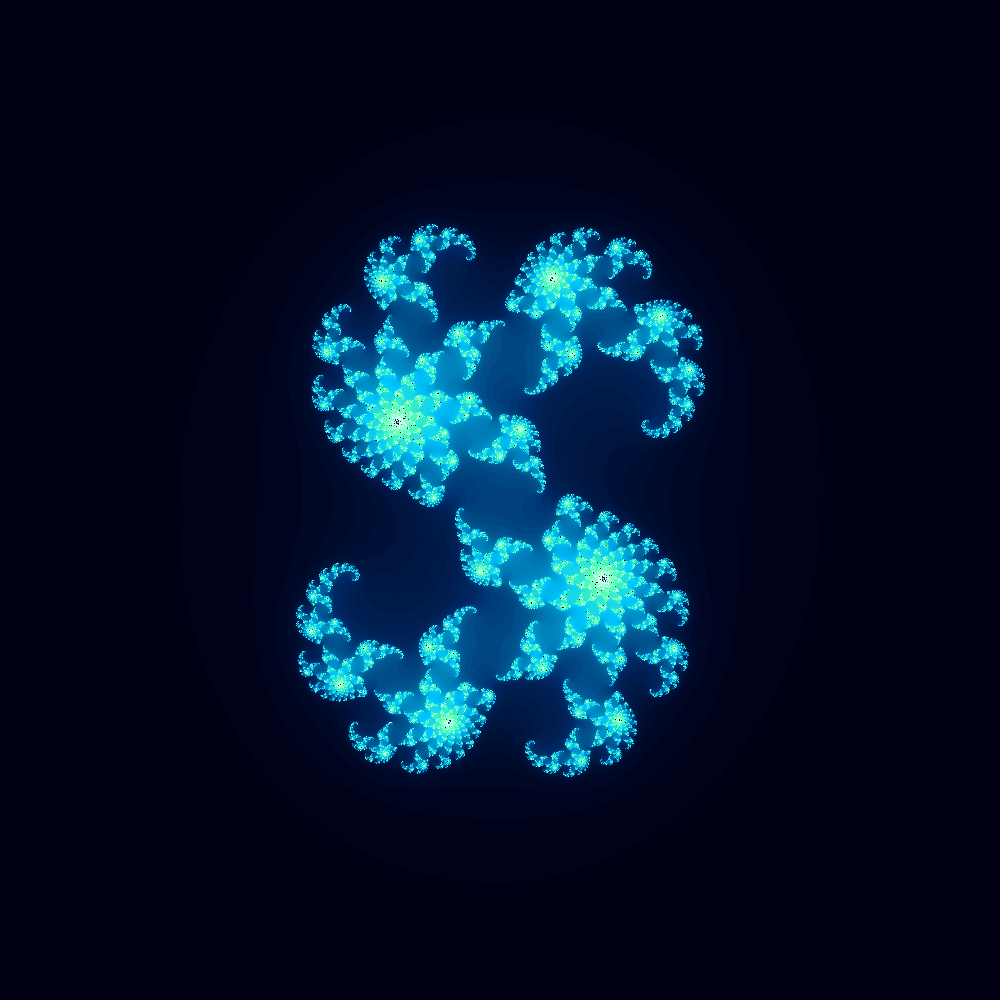
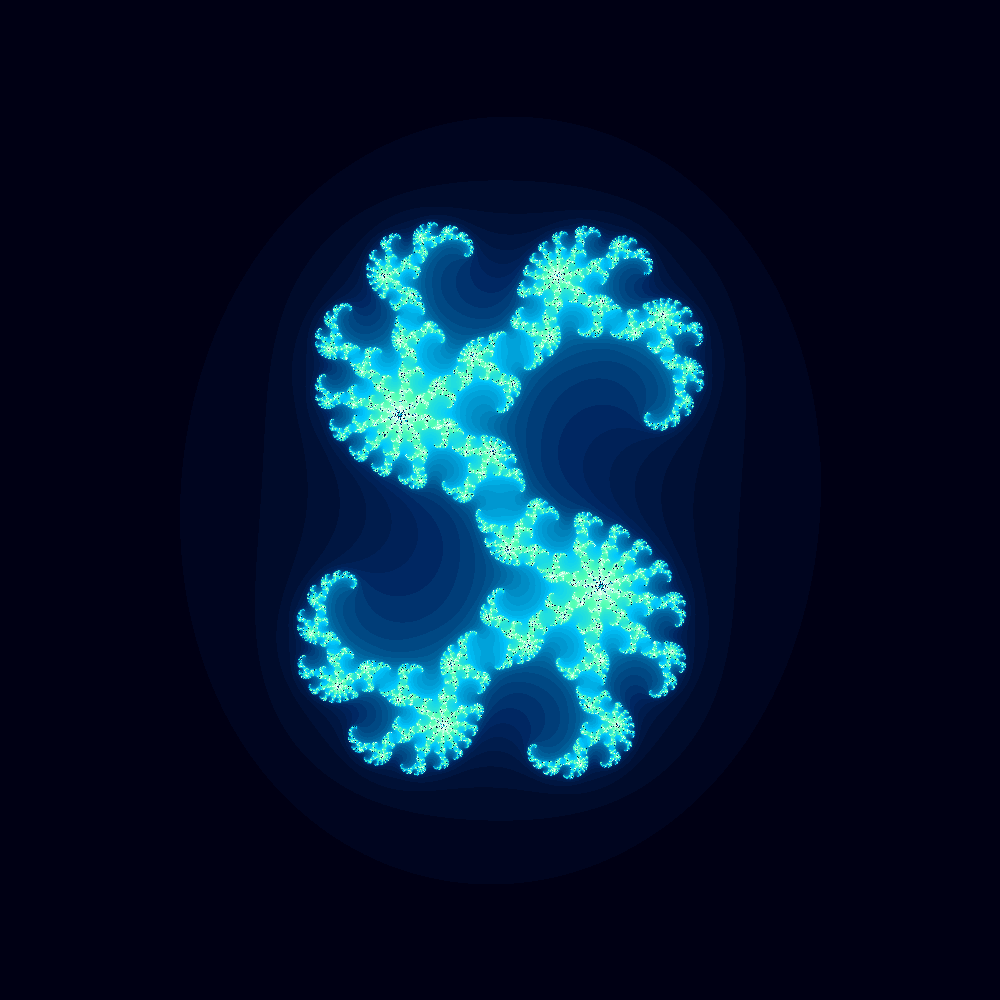
Added an info button

Changed region(s): [[0.279, 0.217, 0.713, 0.806]]

diff --git a/MandelBrot/Gradients.cs b/MandelBrot/Gradients.cs
@@ -37,7 +37,7 @@ namespace MandelBrot
         public static readonly double[] iceAuroraStops = new double[] { 0.0, 0.10, 0.30, 0.50, 0.75, 1.0 };
 
         // Sunset warm gradient
-        public static readonly System.Drawing.Color[] sunsetColors = new System.Drawing.Color[]
+        public static readonly Color[] sunsetColors = new Color[]
         {
             System.Drawing.Color.FromArgb(255, 10, 10, 30),    // 0.00 deep indigo
             System.Drawing.Color.FromArgb(255, 60, 10, 90),    // 0.15 purple
@@ -49,7 +49,7 @@ namespace MandelBrot
         public static readonly double[] sunsetStops = new double[] { 0.0, 0.15, 0.35, 0.60, 0.80, 1.0 };
 
         // Deep ocean gradient
-        public static readonly System.Drawing.Color[] oceanColors = new System.Drawing.Color[]
+        public static readonly Color[] oceanColors = new Color[]
         {
             System.Drawing.Color.FromArgb(255, 0, 0, 20),      // 0.00 almost black
             System.Drawing.Color.FromArgb(255, 0, 30, 80),     // 0.10 navy
@@ -61,7 +61,7 @@ namespace MandelBrot
         public static readonly double[] oceanStops = new double[] { 0.0, 0.10, 0.35, 0.60, 0.85, 1.0 };
 
         // Forest canopy gradient
-        public static readonly System.Drawing.Color[] forestColors = new System.Drawing.Color[]
+        public static readonly Color[] forestColors = new Color[]
         {
             System.Drawing.Color.FromArgb(255, 5, 20, 0),      // 0.00 almost black green
             System.Drawing.Color.FromArgb(255, 10, 70, 20),    // 0.10 deep green
@@ -73,7 +73,7 @@ namespace MandelBrot
         public static readonly double[] forestStops = new double[] { 0.0, 0.10, 0.35, 0.65, 0.90, 1.0 };
 
         // Neon cyber gradient
-        public static readonly System.Drawing.Color[] neonColors = new System.Drawing.Color[]
+        public static readonly Color[] neonColors = new Color[]
         {
             System.Drawing.Color.FromArgb(255, 5, 0, 30),      // 0.00 dark violet
             System.Drawing.Color.FromArgb(255, 60, 0, 140),    // 0.20 electric indigo
@@ -84,7 +84,7 @@ namespace MandelBrot
         public static readonly double[] neonStops = new double[] { 0.0, 0.20, 0.45, 0.70, 1.0 };
 
         // Lava gradient
-        public static readonly System.Drawing.Color[] lavaColors = new System.Drawing.Color[]
+        public static readonly Color[] lavaColors = new Color[]
         {
             System.Drawing.Color.FromArgb(255, 5, 0, 0),       // 0.00 black-red
             System.Drawing.Color.FromArgb(255, 80, 0, 0),      // 0.10 dark maroon
@@ -96,7 +96,7 @@ namespace MandelBrot
         public static readonly double[] lavaStops = new double[] { 0.0, 0.10, 0.35, 0.60, 0.85, 1.0 };
 
         // Pastel sunrise gradient
-        public static readonly System.Drawing.Color[] pastelColors = new System.Drawing.Color[]
+        public static readonly Color[] pastelColors = new Color[]
         {
             System.Drawing.Color.FromArgb(255, 250, 240, 255), // 0.00 lavender
             System.Drawing.Color.FromArgb(255, 240, 220, 255), // 0.20 pale mauve
@@ -107,7 +107,7 @@ namespace MandelBrot
         public static readonly double[] pastelStops = new double[] { 0.0, 0.20, 0.45, 0.70, 1.0 };
 
         // Galaxy gradient with deep space hues
-        public static readonly System.Drawing.Color[] galaxyColors = new System.Drawing.Color[]
+        public static readonly Color[] galaxyColors = new Color[]
         {
             System.Drawing.Color.FromArgb(255, 0, 0, 15),      // 0.00 space black
             System.Drawing.Color.FromArgb(255, 20, 10, 70),    // 0.12 deep purple
@@ -118,7 +118,7 @@ namespace MandelBrot
         public static readonly double[] galaxyStops = new double[] { 0.0, 0.12, 0.30, 0.60, 1.0 };
 
         // Earth gradient
-        public static readonly System.Drawing.Color[] earthColors = new System.Drawing.Color[]
+        public static readonly Color[] earthColors = new Color[]
         {
             System.Drawing.Color.FromArgb(255, 2, 20, 60),    // 0.00 deep ocean
             System.Drawing.Color.FromArgb(255, 0, 90, 140),   // 0.12 coastal blue
@@ -130,7 +130,7 @@ namespace MandelBrot
         public static readonly double[] earthStops = new double[] { 0.0, 0.12, 0.30, 0.55, 0.78, 1.0 };
 
         // Sky gradient
-        public static readonly System.Drawing.Color[] skyColors = new System.Drawing.Color[]
+        public static readonly Color[] skyColors = new   Color[]
         {
             System.Drawing.Color.FromArgb(255, 3, 8, 30),     // 0.00 midnight
             System.Drawing.Color.FromArgb(255, 20, 40, 90),   // 0.18 twilight
@@ -141,7 +141,7 @@ namespace MandelBrot
         public static readonly double[] skyStops = new double[] { 0.0, 0.18, 0.45, 0.75, 1.0 };
 
         // My favorite
-        public static readonly System.Drawing.Color[] favoriteColors = new System.Drawing.Color[]
+        public static readonly Color[] favoriteColors = new Color[]
         {
             System.Drawing.Color.FromArgb(255, 0, 0, 0),    
             System.Drawing.Color.FromArgb(255, 255, 204, 0),  
@@ -152,7 +152,7 @@ namespace MandelBrot
         };
         public static readonly double[] favoriteStops = new double[] { 0.0, 0.16666, 0.3333333, 0.66666666, 0.8333333, 1.0 };
 
-        public static readonly System.Drawing.Color[] redBlackWoodColors = new Color[]
+        public static readonly Color[] redBlackWoodColors = new Color[]
         {
             Color.FromArgb(255, 8, 6, 5),       // 0.00 very dark (near-black warm)
             Color.FromArgb(255, 32, 8, 6),      // 0.10 charred wood undertone

diff --git a/MandelBrot/Window.cs b/MandelBrot/Window.cs
@@ -19,6 +19,7 @@ namespace MandelBrot
         private ComplexNumber center, jz;
         private bool mandel = true; //if true in mandel space, else julia
         private int[,] screenQ;
+        private Color inSetColor = Color.Black;
 
         public Window()
         {
@@ -37,7 +38,7 @@ namespace MandelBrot
             gradient.generatePalette(paletteSize);                           //Calculate the gradient
             zoom = 1.0;                                                      //Initiate the 'camera' zoom
             zoomChange = 5.0;                                                //Initiate how much to zoom in by
-            powChange = 0.1;                                                //Initiate how much to exponentiate z by
+            powChange = 0.01;                                                //Initiate how much to exponentiate z by
             center = new ComplexNumber(-0.5, 0);                             //Initiate center of 'camera'
             MandelMath.setWidthHeight(width, height);
 
@@ -101,9 +102,25 @@ namespace MandelBrot
             for (int x = 0; x < width; x++) for (int y = 0; y < height; y++)
                 {
                     q = screenQ[x, y];
-                    canvas.SetPixel(x, y, (q == -1) ? Color.Black : gradient.getColor(q));  //If q is in the set (-1) paint the pixel black, else the color depends how how fast it diverged
+                    canvas.SetPixel(x, y, (q == -1) ? inSetColor : gradient.getColor(q));  //If q is in the set (-1) paint the pixel black, else the color depends how how fast it diverged
                 }
             this.Invalidate();
+        }
+        //Returns a string of information on the current window
+        private String getInformation()
+        {
+            String juliaC = "";
+            if (!mandel)
+            {
+                juliaC = jz.ToString();
+                juliaC = "Julia C: " + juliaC;
+            }
+
+            return "Center: " + center.ToString() + "\n"
+                    + "Zoom: " + zoom + "\n"
+                    + "n: " + MandelMath.getPower().ToString() + "\n"
+                    + "Julia? " + !mandel + "\n"
+                    + juliaC + "\n";
         }
 
         #region MandelControls
@@ -188,7 +205,9 @@ namespace MandelBrot
                     iterations -= 10; regen(); printData(); break;
                 case Keys.P:
                     String confirm = ScreenShotter.SaveBitmapAsPng(canvas); //Pass in the canvas and the number
-                    MessageBox.Show(confirm);
+                    MessageBox.Show(confirm); break;
+                case Keys.I:
+                    MessageBox.Show(getInformation());
                     break;
             }
         }

diff --git a/MandelBrot/MandelMath.cs b/MandelBrot/MandelMath.cs
@@ -11,7 +11,7 @@ namespace MandelBrot
     internal class MandelMath
     {
         private static double epsilon = 0.000000001,
-            power = 2.0; //What to exponentiate Z by (Z = Z^(power) + C)
+            power = 25; //What to exponentiate Z by (Z = Z^(power) + C)
                 
         private static int width, height;
 
@@ -82,5 +82,6 @@ namespace MandelBrot
             return new Point((int)x, (int)y);
         }
         public static void changePower(double delta) { power += delta; power = (power < 1) ? 1 : power; }
+        public static double getPower() { return Math.Round(power, 8); }
     }
 }

diff --git a/MandelBrot/ComplexNumber.cs b/MandelBrot/ComplexNumber.cs
@@ -65,5 +65,9 @@ namespace MandelBrot
                 cachedTheta = Math.Atan2(imaginary, real);
             return cachedTheta.Value;
         }
+        override public String ToString()
+        {
+            return "{ " + Math.Round(real, 10) + " | " + Math.Round(imaginary, 10) + "i }";
+        }
     }
 }
